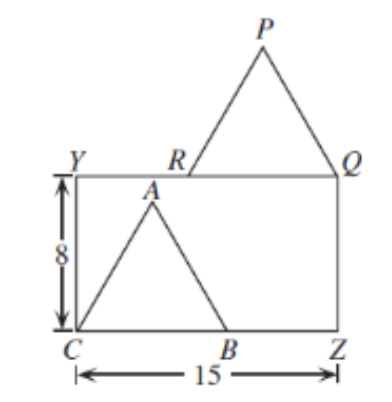
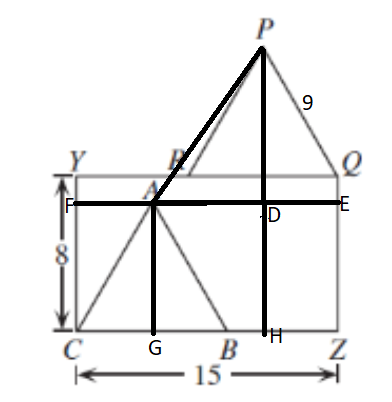
added solutions

diff --git a/_posts/2023-01-14-Fermat-2003-Q19.md b/_posts/2023-01-14-Fermat-2003-Q19.md
@@ -3,7 +3,7 @@ title: Fermat 2003 Q19
 author: Alan_Bui    
 date: 2023-01-14
 categories: [Fermat]
-tags: [geometry, TO DO]
+tags: [geometry]
 math: true    
 mermaid: true  
 ---
@@ -19,3 +19,20 @@ In an art gallery, a 2 m high painting, $BT$, is mounted on a wall with its bott
 
 ## Solution
 
+$\text{Connect B to SF at point A} \implies AB = 3, \angle BAS = 90^{\circ}$
+
+$\therefore BS^2 = AB^2 + AS^2 \implies BS = 3\sqrt{2}$
+
+$\text{Since } \angle TBA = 90^{\circ} \text{ and } \angle SBA = 45^{\circ} \implies \angle TBS = 45^{\circ}$
+
+$\text{Using cosine law: } ST^2 = 2^2 + (3\sqrt{2})^2 - 2(2)(3\sqrt{2})(sin(45^{\circ}))$
+
+$\therefore ST = 10$
+
+$\text{Using sine law: } \dfrac{sin(\angle TSB)}{TB} = \dfrac{sin(\angle TBS)}{TS}$
+
+$\dfrac{sin(\angle TSB)}{2} = \dfrac{sin(45^{\circ})}{\sqrt{10}}$
+
+$sin(\angle TSB) = \dfrac{1}{\sqrt{5}}$
+
+$\angle TSB \approx 27^{\circ}$

diff --git a/_posts/2023-01-14-Fermat-2005-Q20.md b/_posts/2023-01-14-Fermat-2005-Q20.md
@@ -3,7 +3,7 @@ title: Fermat 2005 Q20
 author: Alan_Bui    
 date: 2023-01-14
 categories: [Fermat]
-tags: [geometry, TO DO]
+tags: [geometry]
 math: true    
 mermaid: true  
 ---
@@ -15,5 +15,14 @@ In triangle $ABC$, if $AB = AC = x + 1$ and $BC = 2x - 2$, where $x > 1$, then t
 
 [Problem Link](https://cemc.uwaterloo.ca/contests/past_contests/2005/2005FermatContest.pdf)
 
+![Problem Diagram](/assets/diagrams/fermat2005q20.png)
+
 ## Solution
 
+$\text{Let the Area of }\triangle ABC \text{ be A }$
+
+$\therefore A = \dfrac{1}{2} \times BC \times AD$
+
+$A = \dfrac{1}{2} \times (2x - 2) \times \sqrt{((x+1)^2) - ((x-1)^2)}$
+
+$A = (x-1) \sqrt{(x^2 + 2x + 1) - (x^2 - 2x + 1)} = (x-1)\sqrt{4x} = 2(x-1)\sqrt{x}$

diff --git a/_posts/2023-01-14-Fermat-2005-Q17.md b/_posts/2023-01-14-Fermat-2005-Q17.md
@@ -3,7 +3,7 @@ title: Fermat 2005 Q17
 author: Alan_Bui    
 date: 2023-01-14
 categories: [Fermat]
-tags: [geometry, TO DO]
+tags: [geometry]
 math: true    
 mermaid: true  
 ---
@@ -17,3 +17,10 @@ A cylinder with radius 2 cm and height 8 cm is full of water. A second cylinder 
 
 ## Solution
 
+$\text{Cylinder 1: } r = 2, h = 8, V = \pi \times r^2 \times h = 32\pi$
+
+$\text{Cylinder 2: } r = 4, h = ?, V = 32\pi$
+
+$\pi \times r^2 \times h = 32\pi$
+
+$4^2 \times h = 32 \implies h = 2$

diff --git a/_posts/2023-01-14-Fermat-2002-Q20.md b/_posts/2023-01-14-Fermat-2002-Q20.md
@@ -3,7 +3,7 @@ title: Fermat 2002 Q20
 author: Alan_Bui    
 date: 2023-01-14
 categories: [Fermat]
-tags: [geometry, TO DO]
+tags: [geometry]
 math: true    
 mermaid: true  
 ---
@@ -19,3 +19,10 @@ In the diagram, $YQZC$ is a rectangle with $YC = 8$ and $CZ = 15$. Equilateral t
 
 ## Solution
 
+$AP^2 = AD^2 + DP^2$
+
+$AD = FE - FA - DE = 15 - 9/2 - 9/2 = 6$
+
+$DP = HP - XP = \dfrac{9\sqrt{3}}{2} + 8 - \dfrac{9\sqrt{3}}{2} = 8$
+
+$\therefore AP^2 = 6^2 + 8^2 \implies AP = 10$
